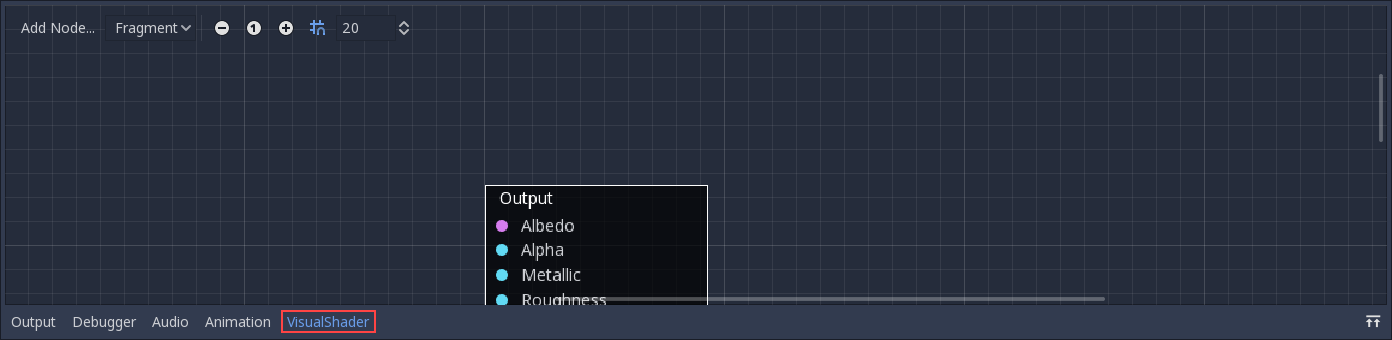
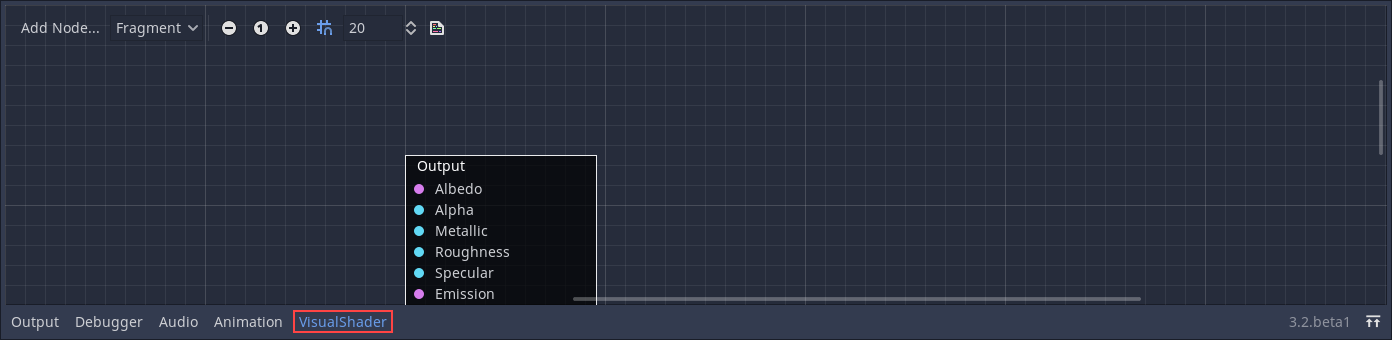
Update shader materials page for Godot 3.2

diff --git a/tutorials/shading/shader_materials.rst b/tutorials/shading/shader_materials.rst
@@ -40,8 +40,8 @@ Next, click on the shader material to see its properties. From here you
 can create a shader or visual shader. Regular shaders use code to set
 their properties while a visual shader uses a node based workflow.
 
-There is no way to convert between the two, so if you decide you want to
-change to a visual shader or vice versa, you will have to start from scratch.
+If you need to you can convert a visual shader to a text shader.
+However you can't convert a text shader to a visual shader.
 
 Choose one of them and you can start editing your shader.
 
@@ -54,6 +54,13 @@ If you create a regular shader click on it and the shader editor will open.
 If you create a visual shader the visual shader editor will open automatically.
 
 .. image:: img/visual_shader_editor.png
+
+In the visual shader editor you can click a button and see what your visual
+shader looks like as shader code. This can be useful if you're trying to
+replicate a text shader as nodes, or it can be used as a preview for converting
+your visual shader to a text shader.
+
+.. image:: img/visual_shader_code.png
 
 Converting to ShaderMaterial
 ----------------------------
